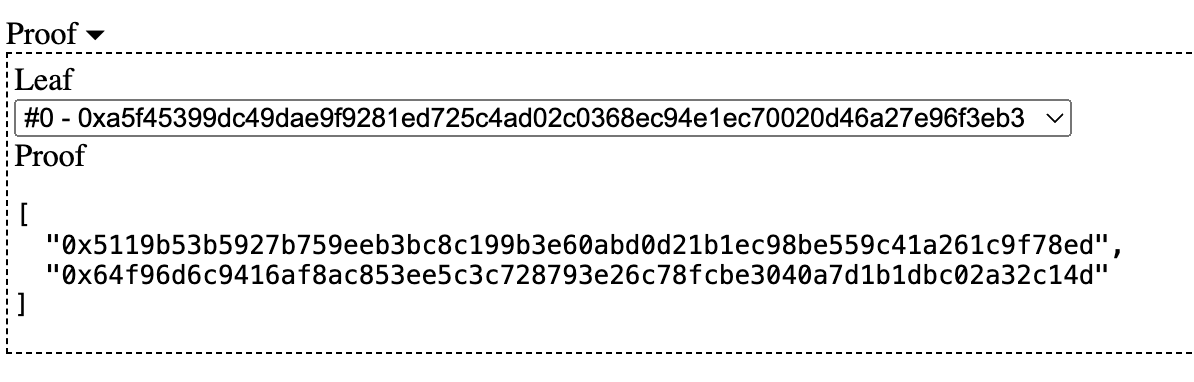
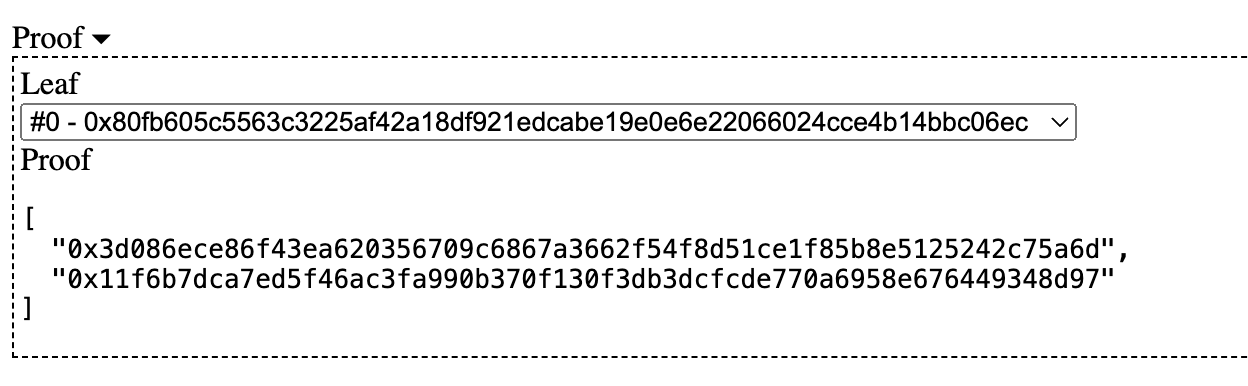
update merklee-tree.md

diff --git a/docs/general/build/smart-contracts/merkle-tree.md b/docs/general/build/smart-contracts/merkle-tree.md
@@ -4,7 +4,7 @@ title: Merkle Tree
 displayed_sidebar: generalSidebar
 ---
 
-## Merkle Tree
+## Basic Concepts
 
 A Merkle Tree, also referred to as a hash tree, is an essential cryptographic structure in blockchain technology. It is widely implemented in blockchains such as Bitcoin and Ethereum. The construction of a Merkle Tree begins from the bottom, with each leaf node representing the hash of a data block. The non-leaf nodes are formed by hashing the combination of their two child nodes. This hierarchical structure ensures efficient and secure verification of large datasets, making Merkle Trees a critical component of blockchain integrity and security.
 
@@ -23,15 +23,10 @@ Here, we'll use the webpage to generate a `Merkle Tree` with 4 addresses as leaf
 ```solidity
 
 [
-
-"cfx:aanx6yaz8dpzkaxae9whk5dwnv3ht70p22kmbn53h3",
-
-"cfx:aaryn9u88jt23wehbwryrm52ntrfvscs62zu50kdj2",
-
-"cfx:aaryn9u88jt23wehbwryrm52ntrfvscs62zu50kdj2",
-
-"cfx:aathwrjf2j9565fkumk1unrdvhn3v7e36umd4x19eg"
-
+    "cfx:aanx6yaz8dpzkaxae9whk5dwnv3ht70p22kmbn53h3",
+    "cfx:aamfjckr0t4egdymymjw475pz5jdng154yw4a0hcf6",
+    "cfx:aaryn9u88jt23wehbwryrm52ntrfvscs62zu50kdj2",
+    "cfx:aathwrjf2j9565fkumk1unrdvhn3v7e36umd4x19eg"
 ]
 
 ```
@@ -41,27 +36,29 @@ Here, we'll use the webpage to generate a `Merkle Tree` with 4 addresses as leaf
 Select the options `Keccak-256`, `hashLeaves`, and `sortPairs` from the menu, and then click `Compute` to generate the `Merkle Tree`. The expanded `Merkle Tree` looks like this:
 
 ```
-└─ Root: 3feed4f7cfb49827608c4258efc809f3e27974d2a847994f47bf9c7708aa8577
-   ├─ 94305a302419b3c151d5b7c245ff84b378dad8b71c029778db3efcb592e90a1a
-   │  ├─ Leaf0: a5f45399dc49dae9f9281ed725c4ad02c0368ec94e1ec70020d46a27e96f3eb3
-   │  └─ Leaf1: 5119b53b5927b759eeb3bc8c199b3e60abd0d21b1ec98be559c41a261c9f78ed
-   └─ 64f96d6c9416af8ac853ee5c3c728793e26c78fcbe3040a7d1b1dbc02a32c14d
-      ├─ Leaf2: 5119b53b5927b759eeb3bc8c199b3e60abd0d21b1ec98be559c41a261c9f78ed
-      └─ Leaf3: 2045f6fd5cf771d18ca0701676d1431a9642c87b42f2f4b1154736295ef8d929
+└─ Root: 7c673c5ecb8433fe9c80facbb70c2d229594098cdee84e4ec0fd5bc1acd4c176
+   ├─ 8d4991806718c7ea7b0f068bb9d2edd409ef2345b5bd5ec3153051b03a5d35b7
+   │  ├─ Leaf0: 80fb605c5563c3225af42a18df921edcabe19e0e6e22066024cce4b14bbc06ec
+   │  └─ Leaf1: 3d086ece86f43ea620356709c6867a3662f54f8d51ce1f85b8e5125242c75a6d
+   └─ 11f6b7dca7ed5f46ac3fa990b370f130f3db3dcfcde770a6958e676449348d97
+      ├─ Leaf2: bed238de7f62b0198a0a969b9d4ed809a036b4882740d2125b81dc9fc0da1d25
+      └─ Leaf3: adac58c9ca5c47917367d64baa67a6ba7ce3e67145fb19fb82b83c7766298130
 ```
 
 ## Merkle Proof Verification
 
-Using the website, we can obtain the `proof` for address 0, which consists of the hash values of the blue nodes in the second diagram:
+Using the website, we can obtain the `proof` for `address 0`: `cfx:aanx6yaz8dpzkaxae9whk5dwnv3ht70p22kmbn53h3`, which consists of the hash values of the blue nodes in the second diagram:
 
 ```solidity
 [
[4 lines of base64/hex data omitted]
 ]
 ```
 
 ![Merkle Proof](../../image/merkle-tree-proof.png)
+
+In our smart contract, we can use `MerkleVerification` library below to verify the proof.
 
 ```solidity
 library MerkleVerification {
@@ -104,4 +101,8 @@ The `MerkleVerification` library contains three functions:
 
 3. `hashPair()`: Computes the hash of a pair of nodes using `keccak256()` after sorting them.
 
-By inputting the hash of address 0, the `root`, and the corresponding `proof` into the `verify()` function, it returns `true`. This confirms that the hash of address 0 is in the `Merkle Tree` with the given `root`, and the `proof` is correct. Changing any of these values will return `false`.
+By inputting the hash of `address 0`, the `root`, and the corresponding `proof` into the `verify()` function, it returns `true`. This confirms that the hash of `address 0` is in the `Merkle Tree` with the given `root`, and the `proof` is correct. Changing any of these values will return `false`.
+
+## Using Merkle Tree for NFT
+
+if you want to use merkle tree to issue whitelisted NFT on conflux coreSpcae, please refer to this article [Merkle Tree NFT Whitelist on CoreSpace using Hardhat](docs/core/tutorials/nft-tutorials/whitelists).
